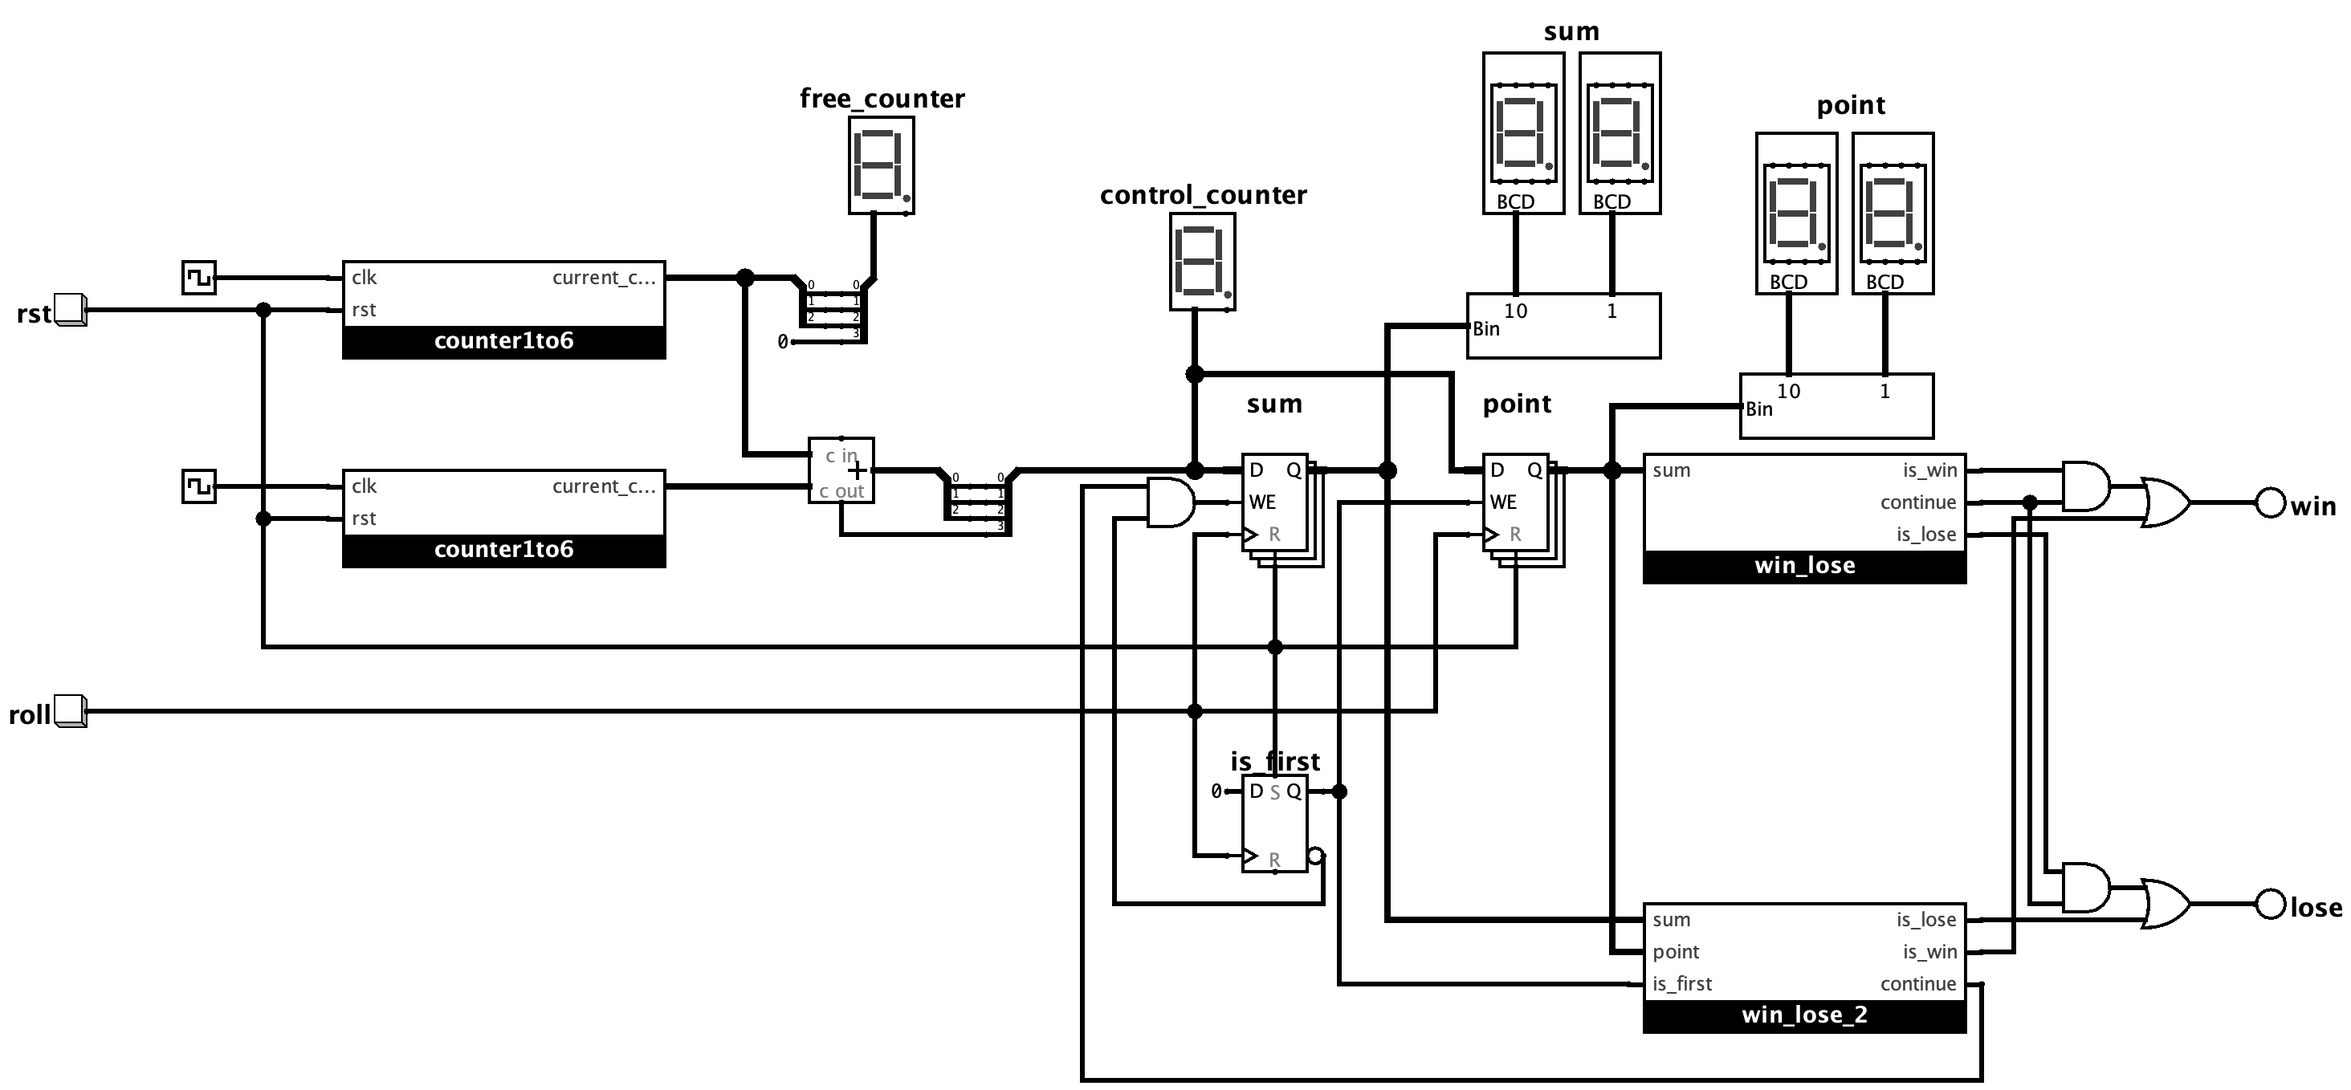
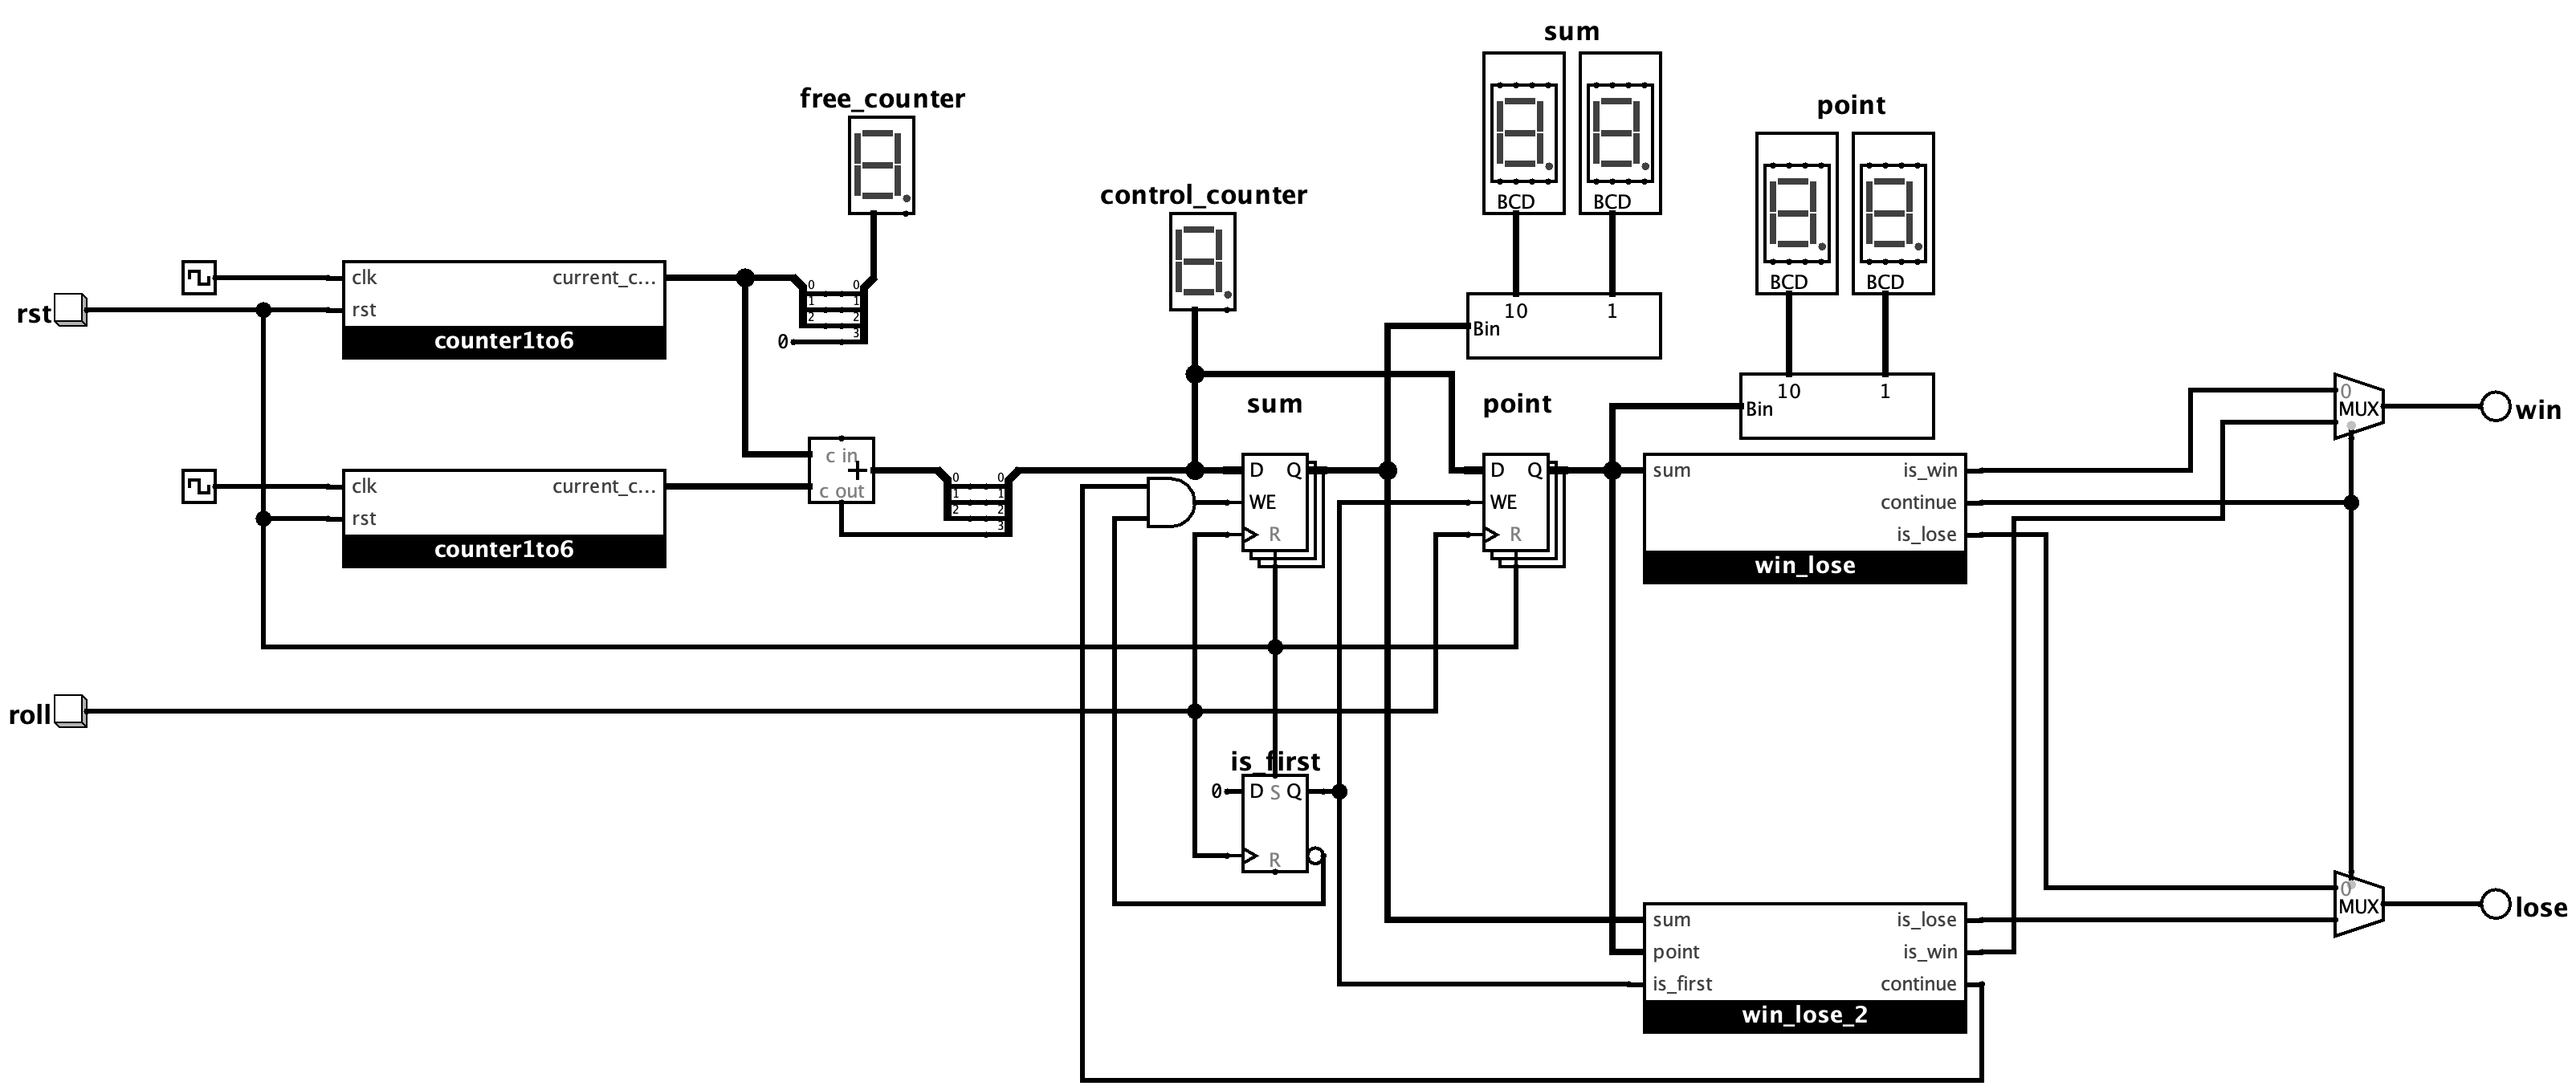
no message

diff --git a/Lab1/XX.md b/Lab1/XX.md
@@ -192,6 +192,8 @@ Có 2 bộ đếm được chạy liên tục với tần số khác nhau để 
 
 Khi lần đầu đổ xúc xắc, giá trị __sum__ sẽ được chốt bởi thanh ghi __point__ và không thay đổi xuyên suốt quá trình trừ khi tín hiệu __rst__ được kích hoạt.
 
+Với giá trị lần đầu tiên đổ xúc xắc được chốt bởi point, khối __win_lose__ sẽ kiểm tra điều kiện thắng/thua/tiếp. Nếu thắng hoặc thua ngay trong lần đầu, tín hiệu continue sẽ bị tắt, từ đó các bộ mux sẽ lựa chọn kết quả is_win, is_lose để làm kết quả win, lose cuối cùng. Nếu lần đầu chưa thắng hoặc thua, tín hiệu continue sẽ bật, các bộ mux sẽ lựa chọn kết quả is_win, is_lose của khối __win_lose_2__.
+
 #### [<< Quay trở lại SPEC](./README.md)
 
 #### [<< ALU](./ALU.md)
